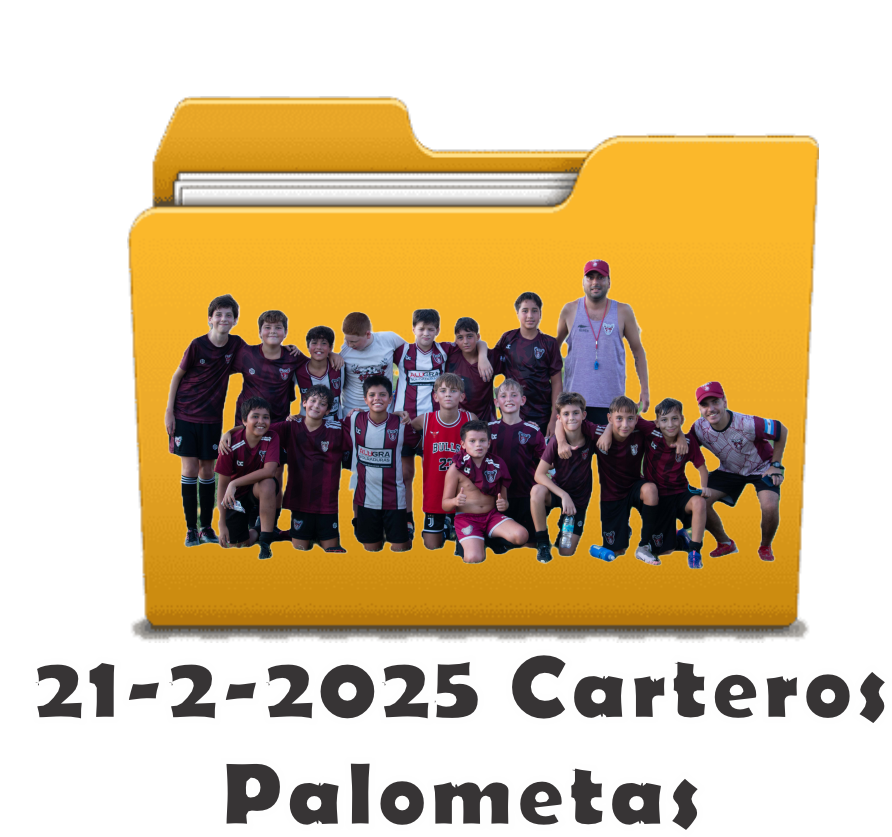
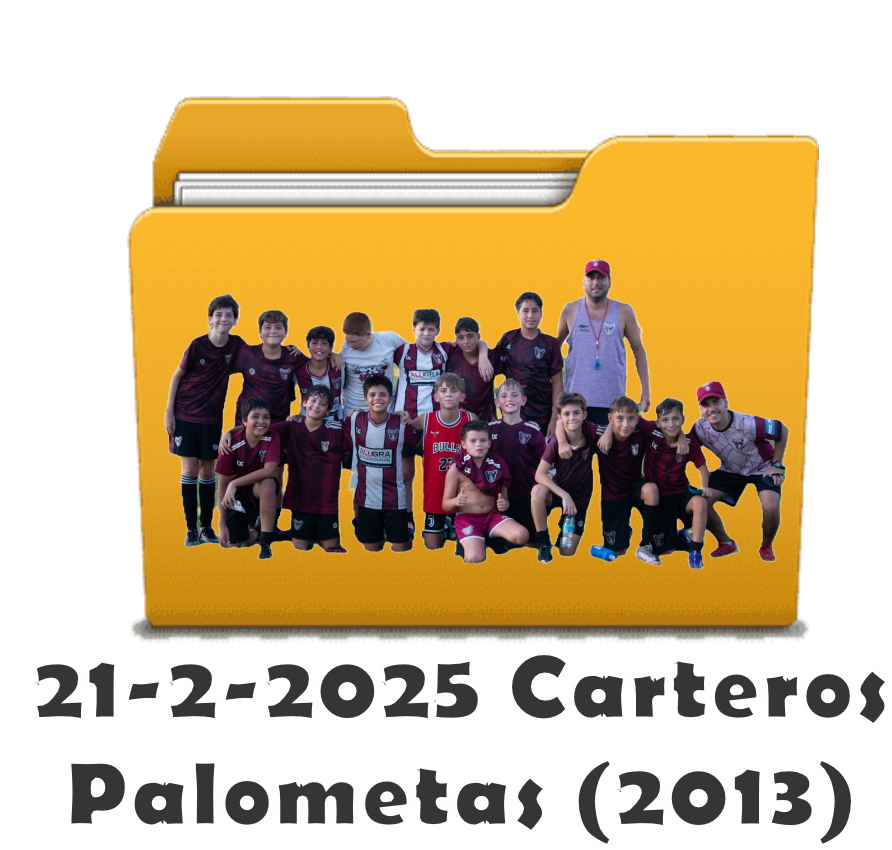
14-7-2025

diff --git a/2025.html b/2025.html
@@ -22,6 +22,6 @@ body {
 <p>&nbsp;</p>
 <p>&nbsp;</p>
 <p>&nbsp;</p>
-<p><a href="https://www.playbook.com/s/palometas/Y9gehsHmedhrpz4CCfbNoahX"><img src="Img/2025/carpeta 21-2-2025 Carteros -Palometas.png" width="160" height="140" alt=""/></a><a href="https://www.playbook.com/s/palometas/YMfakRZBBW6bGgeFSvhYEP6C"><img src="Img/2025/carpeta 29-3-2025 Carteros -Palometas.png" width="160" height="140" alt=""/></a><a href="https://www.playbook.com/s/palometas/VQ5pkthBs74uHY68R64rahDQ"><img src="Img/2025/carpeta 2-4-2025 Mercedes Palometas (Cat 2011).png" width="160" height="140" alt=""/></a><a href="https://www.playbook.com/s/palometas/nFYv3ZyAPkPvvFwu8XTNxo5x"></a><a href="2014.html" target="_blank"></a><a href="https://www.playbook.com/s/palometas/JX9oswHskYZoVyLiq7CzeKqu"><img src="Img/2025/carpeta Mercedes - Palometas 2-4-2025 (Cat 2012).png" width="160" height="140" alt=""/></a><a href="https://www.playbook.com/s/palometas/yKYBrT6RQC2B8XYFkqozXdNR"><img src="Img/2025/carpeta Fronton - Palometas 5-4-2025 (Sub 12).png" width="160" height="140" alt=""/></a><a href="https://www.playbook.com/s/palometas/qFgGM2K2wbwX371xHe5hs8Sb"><img src="Img/2025/carpeta Fronton - Palometas 5-4-2025 (Categoria 2013).png" width="160" height="140" alt=""/></a><a href="https://www.playbook.com/s/palometas/SCF7ncnYpn7PLr393Vnkd66o"><img src="Img/2025/carpeta 10-5-2025 Union - Palometas  (2013).png" width="160" height="140" alt=""/></a><a href="https://www.playbook.com/s/palometas/BvyDHn4sYfQxadsJRucCNRjh"><img src="Img/2025/carpeta 24-5-2025 Defensores - Palometas (2012).png" width="160" height="140" alt=""/></a><a href="https://www.playbook.com/s/palometas/Brcko3PsE1RgyBW2B115WHGy"><img src="Img/2025/carpeta 24-5-2025 Ateneo - Palometas (2013).png" width="160" height="140" alt=""/></a></p>
+<p><a href="https://www.playbook.com/s/palometas/Y9gehsHmedhrpz4CCfbNoahX"><img src="Img/2025/carpeta 21-2-2025 Carteros -Palometas.png" width="160" height="140" alt=""/></a><a href="https://www.playbook.com/s/palometas/YMfakRZBBW6bGgeFSvhYEP6C"><img src="Img/2025/carpeta 29-3-2025 Carteros -Palometas.png" width="160" height="140" alt=""/></a><a href="https://www.playbook.com/s/palometas/VQ5pkthBs74uHY68R64rahDQ"><img src="Img/2025/carpeta 2-4-2025 Mercedes Palometas (Cat 2011).png" width="160" height="140" alt=""/></a><a href="https://www.playbook.com/s/palometas/nFYv3ZyAPkPvvFwu8XTNxo5x"></a><a href="2014.html" target="_blank"></a><a href="https://www.playbook.com/s/palometas/JX9oswHskYZoVyLiq7CzeKqu"><img src="Img/2025/carpeta Mercedes - Palometas 2-4-2025 (Cat 2012).png" width="160" height="140" alt=""/></a><a href="https://www.playbook.com/s/palometas/yKYBrT6RQC2B8XYFkqozXdNR"><img src="Img/2025/carpeta Fronton - Palometas 5-4-2025 (Sub 12).png" width="160" height="140" alt=""/></a><a href="https://www.playbook.com/s/palometas/qFgGM2K2wbwX371xHe5hs8Sb"><img src="Img/2025/carpeta Fronton - Palometas 5-4-2025 (Categoria 2013).png" width="160" height="140" alt=""/></a><a href="https://www.playbook.com/s/palometas/SCF7ncnYpn7PLr393Vnkd66o"><img src="Img/2025/carpeta 10-5-2025 Union - Palometas  (2013).png" width="160" height="140" alt=""/></a><a href="https://www.playbook.com/s/palometas/BvyDHn4sYfQxadsJRucCNRjh"><img src="Img/2025/carpeta 24-5-2025 Defensores - Palometas (2012).png" width="160" height="140" alt=""/></a><a href="https://www.playbook.com/s/palometas/Brcko3PsE1RgyBW2B115WHGy"><img src="Img/2025/carpeta 24-5-2025 Ateneo - Palometas (2013).png" width="160" height="140" alt=""/></a><a href="https://www.playbook.com/s/palometas/wmarFeXNeD5t2mFC5ByAGjSj"></a><a href="https://www.playbook.com/s/palometas/nVD1ToKb1JJT8cXnDTGwpvBa"><img src="Img/2025/carpeta 21-6-2025 Villa Manchi - Palometas Categoria 2013.png" width="160" height="140" alt=""/></a><a href="https://www.playbook.com/s/palometas/wmarFeXNeD5t2mFC5ByAGjSj"><img src="Img/2025/carpeta 10-7-2025 Quilmes - Palometas (2013).png" width="160" height="140" alt=""/></a></p>
 </body>
 </html>
